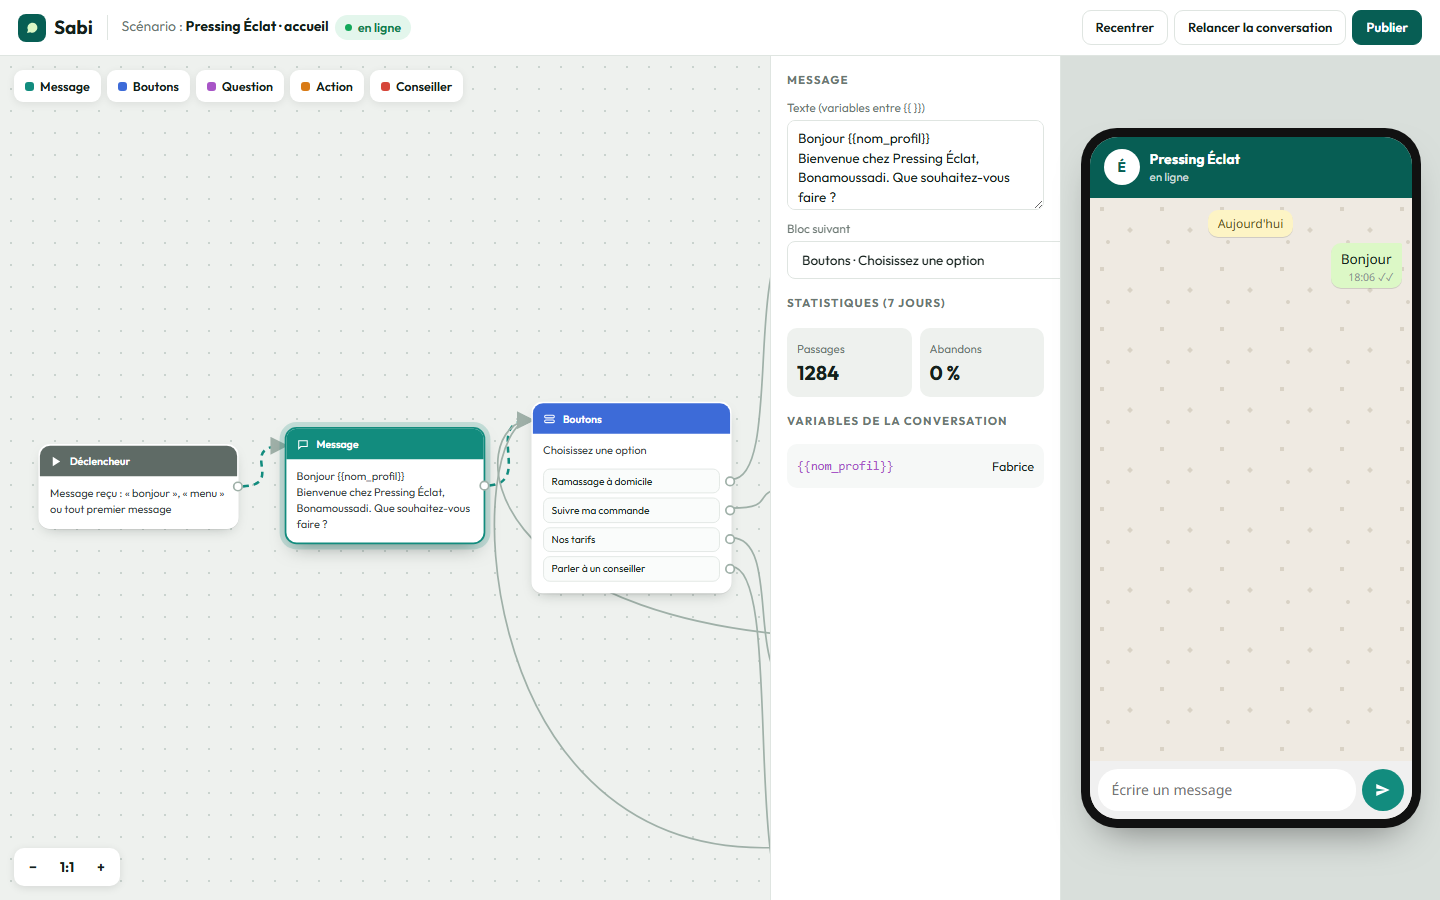
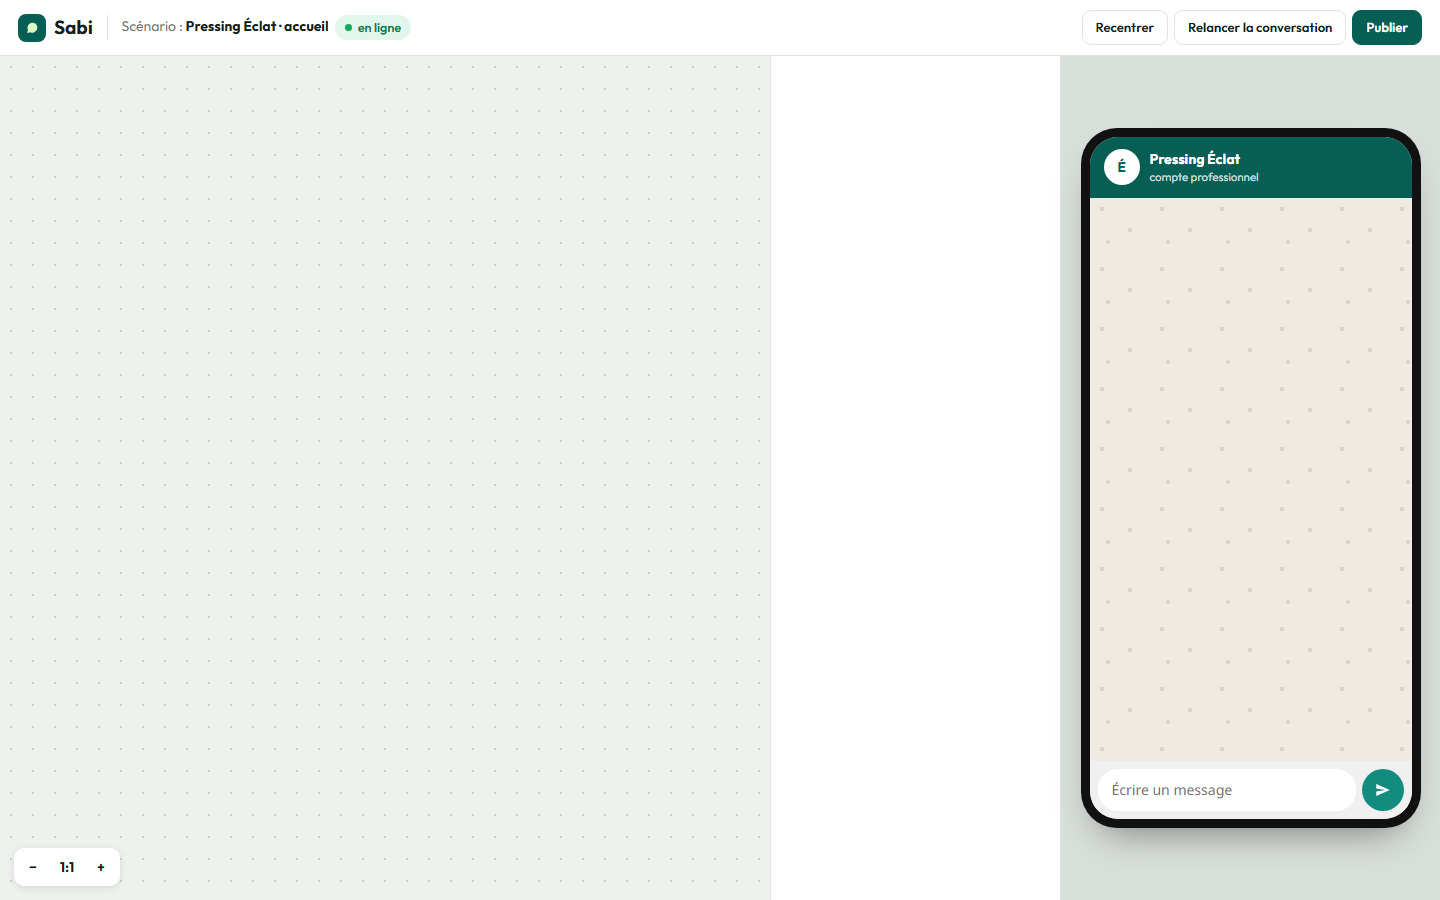
Tarifs en euros et medias mis a jour

diff --git a/index.html b/index.html
@@ -107,16 +107,20 @@ const KIND={start:['Déclencheur','--n6','<path d="M5 3l14 9-14 9z" fill="curren
  ask:['Question','--n3','<path d="M9 9a3 3 0 1 1 4 2.8c-.8.4-1 1-1 2.2M12 18v.5" stroke="currentColor" stroke-width="2" fill="none" stroke-linecap="round"/>'],act:['Action','--n4','<path d="M13 2 4 14h7l-1 8 9-12h-7z" fill="currentColor"/>'],human:['Conseiller','--n5','<circle cx="12" cy="8" r="4" fill="none" stroke="currentColor" stroke-width="2"/><path d="M4 21c1-4 4-6 8-6s7 2 8 6" fill="none" stroke="currentColor" stroke-width="2"/>']};
 let N=[
  {id:'s',k:'start',x:40,y:300,t:'Message reçu : « bonjour », « menu » ou tout premier message',nx:'m1'},
- {id:'m1',k:'msg',x:330,y:280,t:'Bonjour {{nom_profil}}\nBienvenue chez Pressing Éclat, Bonamoussadi. Que souhaitez-vous faire ?',nx:'b1'},
+ {id:'m1',k:'msg',x:330,y:280,t:'Bonjour {{nom_profil}}\nBienvenue chez Pressing Éclat, Lyon 3e. Que souhaitez-vous faire ?',nx:'b1'},
  {id:'b1',k:'btn',x:620,y:250,t:'Choisissez une option',o:[['Ramassage à domicile','q1'],['Suivre ma commande','q4'],['Nos tarifs','m4'],['Parler à un conseiller','h1']]},
  {id:'q1',k:'ask',x:930,y:40,t:'Quel est votre nom ?',v:'nom',val:'texte',nx:'q2'},
  {id:'q2',k:'ask',x:1210,y:40,t:'Merci {{nom}}. À quelle adresse passer récupérer votre linge ?',v:'adresse',val:'texte',nx:'q3'},
  {id:'q3',k:'btn',x:1490,y:20,t:'Quel créneau vous arrange ?',v:'creneau',o:[['Demain 8 h – 10 h','a1'],['Demain 17 h – 19 h','a1'],['Samedi matin','a1']]},
  {id:'a1',k:'act',x:1780,y:60,t:'Créer la commande dans le logiciel du pressing\nEnvoyer un SMS au livreur',nx:'m2'},
- {id:'m2',k:'msg',x:2060,y:60,t:'C\'est noté\nCommande {{commande}} : passage {{creneau}} au {{adresse}}.\nPaiement à la livraison ou par Mobile Money.',nx:null},
+ {id:'m2',k:'msg',x:2060,y:60,t:'C\'est noté\nCommande {{commande}} : passage {{creneau}} au {{adresse}}.\nPaiement à la livraison par carte ou en ligne.',nx:null},
  {id:'q4',k:'ask',x:930,y:330,t:'Indiquez votre numéro de commande (ex. EC-2041)',v:'numero',val:'commande',nx:'m3'},
  {id:'m3',k:'msg',x:1210,y:330,t:'Commande {{numero}} : 6 pièces, lavage terminé, repassage en cours.\nPrête demain à partir de 14 h',nx:'b1'},
- {id:'m4',k:'msg',x:930,y:560,t:'Nos tarifs :\nChemise 500 F · Pantalon 700 F\nCostume 2 500 F · Robe 1 500 F\nDrap 1 000 F · Kaba 1 200 F\nRamassage gratuit dès 5 000 F.',nx:'b1'},
+ {id:'m4',k:'msg',x:930,y:560,t:'Nos tarifs :
+Chemise 3,50 € · Pantalon 6 €
+Costume 16 € · Robe 12 €
+Couette 22 € · Manteau 18 €
+Ramassage gratuit dès 30 €.',nx:'b1'},
  {id:'h1',k:'human',x:930,y:820,t:'Transférer à l\'équipe (Lun.–Sam. 7 h – 20 h)\nTemps de réponse moyen : 4 min',nx:null}];
 const byId=id=>N.find(n=>n.id===id);let sel='b1',run=null,Z=.62,OX=10,OY=20;
 function toast(m){const t=$('#toast');t.textContent=m;t.classList.add('on');clearTimeout(t._);t._=setTimeout(()=>t.classList.remove('on'),2200)}
@@ -179,7 +183,7 @@ $('#msgs').onclick=e=>{const b=e.target.closest('.qr button');if(b&&!b.disabled)
 $('#cmp').onsubmit=e=>{e.preventDefault();const v=$('#ti').value.trim();if(!v)return;$('#ti').value='';reply(v)};
 window.__dit=t=>reply(t);window.__bouton=i=>{const b=$$('.qr button:not(:disabled)')[i];if(b)b.click()};
 function restart(){V={nom_profil:'Fabrice'};$('#msgs').innerHTML='<div class="m sys">Aujourd\'hui</div>';wait=null;run=null;setTimeout(()=>reply('Bonjour'),400)}
-$('#restart').onclick=restart;$('#pub').onclick=()=>toast('Scénario publié sur le numéro +237 6 99 00 11 22');
+$('#restart').onclick=restart;$('#pub').onclick=()=>toast('Scénario publié sur le numéro +33 6 99 00 11 22');
 draw();ins();fit();restart();
 </script>
 </body>
